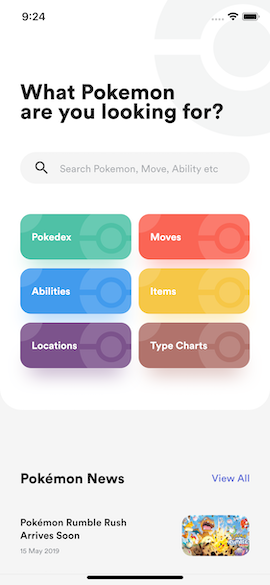
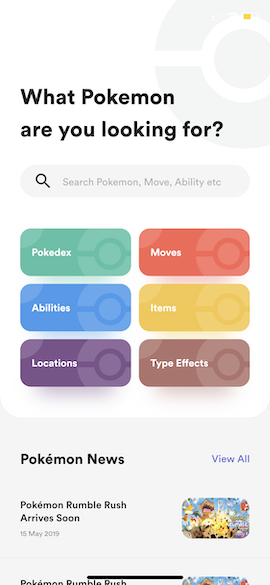
update screenshots

diff --git a/README.md b/README.md
@@ -7,21 +7,20 @@
 
 Pokedex app built with Flutter
 
-## Download
-
-Go to the [releases page](https://github.com/scitbiz/flutter_pokedex/releases) to download the latest available apk.
-
 ## App preview
 
 ![Home](screenshots/home.png "Home")
+![News](screenshots/home-news.png "News")
 ![Pokedex](screenshots/pokedex.png "Pokedex")
 ![Pokedex FAB](screenshots/pokedex-fab.png "Pokedex FAB")
-![Pokedex Search](screenshots/pokedex-fab-search.png "Pokedex Search")
 ![Pokedex Generation](screenshots/pokedex-fab-generation.png "Pokedex Generation")
 ![Pokemon Info - About](screenshots/pokemon-info-about.png "Pokemon Info - About")
 ![Pokemon Info - Base Stats](screenshots/pokemon-info-base-stats.png "Pokemon Info - Base Stats")
 ![Pokemon Info - Evolution](screenshots/pokemon-info-evolution.png "Pokemon Info - Evolution")
-![Pokemon Info - About (Expanded)](screenshots/pokemon-info-about-expanded.png "Pokemon Info - About (Expanded)")
+![Pokemon Info - Base Stats (Expanded)](screenshots/pokemon-info-expanded.png "Pokemon Info - Base Stats (Expanded)")
+
+## Video demo
+[![Demo](screenshots/thumbnail.png)](https://www.youtube.com/watch?v=qKrFWerjoV8)
 
 ## Installation
 
@@ -40,7 +39,7 @@ Go to the [releases page](https://github.com/scitbiz/flutter_pokedex/releases) t
 - [x] Pokedex - Add FAB animation
 - [ ] Pokedex - Add grid loading animation
 - [x] Pokedex - Add more Pokemons by [balvinderz](https://github.com/balvinderz)
-- [ ] Pokedex - Add load more
+- [x] Pokedex - Add load more
 - [x] Pokemon Info
 - [x] Pokemon Info - About
 - [x] Pokemon Info - Base Stats
@@ -56,7 +55,7 @@ Go to the [releases page](https://github.com/scitbiz/flutter_pokedex/releases) t
 ## Thanks
 
 - [Saepul Nahwan](https://dribbble.com/saepulnahwan23) for his [Pokedex App design](https://dribbble.com/shots/6545819-Pokedex-App)
-- [Sabri Bey](https://www.deviantart.com/sabribey) for the splash gif
+- [Sabri Bey](https://www.deviantart.com/sabribey) for the Pikachu gif
 - [Flutter](https://flutter.dev) for the great cross platform framework
 
 ## License
